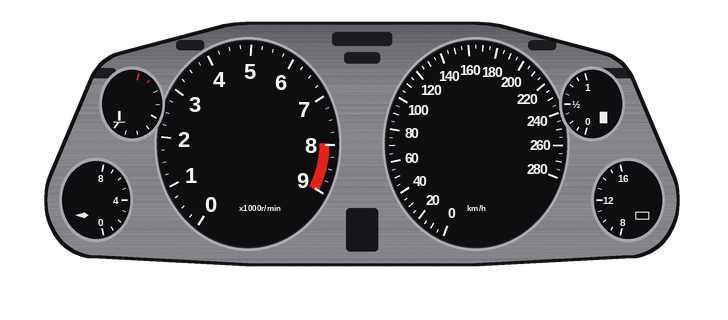
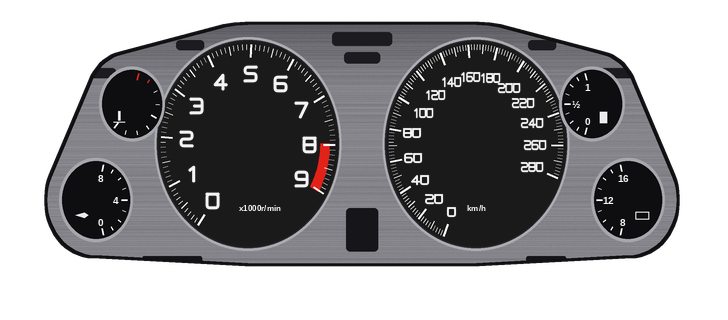
Kaze NX: quadro refeito pela foto — algarismos quadrados de cantos redondos desenhados à mão, marcações finas em toda a volta, ponteiros em barra sobre disco chapado, hodômetros fora dos mostradores (v0.29.9)
Claude-Session: https://claude.ai/code/session_01MLD9VR7gkmY4w6a9beZcp6

diff --git a/src/cockpit.ts b/src/cockpit.ts
@@ -796,7 +796,7 @@ COCKPIT_ART.countach = {
 // velocímetro 0-280 grandes, água e pressão do óleo à esquerda, combustível e bateria à direita
 COCKPIT_ART.nsx = {
   dash: cp('nsx-dash'), top: cp('nsx-top'), wheel: cp('nsx-wheel'),
-  pivot: [128, 104], wheelTop: 14, tachReal: true, speedMax: 280, needle: '#ff3a1a', needleW: 2.3, needleTail: 0, needleTip: 0.18, hub: '#1a1a1c', radar: [30, 4],
+  pivot: [128, 104], wheelTop: 14, tachReal: true, speedMax: 280, needle: '#f2361c', needleW: 1.8, needleTail: 3.0, needleTip: 0.5, hubUnder: true, hub: '#2c2c2f', radar: [30, 4],
   // retrovisor externo à direita (mão inglesa): o espelho da arte é transparente e mostra a vista de trás
   glass: { at: [436, 71], thr: 256 },
   // o quadro inteiro é uma imagem em alta resolução desenhada a partir da foto (tools/ref/nx_gauges.py):
@@ -805,7 +805,7 @@ COCKPIT_ART.nsx = {
   faces: [{ src: cp('nsx-cluster'), src2: cp('nsx-cluster-2x'), x: 38.5, y: 14.5, w: 182, h: 80 }],
   // à noite só números e marcações brancas acendem (o alumínio e os fundos pretos escurecem); ponteiros acesos
   facesLit: '236,244,255', litMin: 185, litNeedles: true,
-  needleFine: true, hubR: 3, tells: [129, 24], glow: '235,240,255', // setas na janelinha do alto; à noite números brancos
+  needleFine: true, hubR: 3.3, tells: [129, 24], glow: '235,240,255', // setas na janelinha do alto; à noite números brancos
   tach: { x: 100, y: 50, r: 22.5, max: 9, labels: [], tick: 1, red: 999, face: false, a0: 125 * (Math.PI / 180), sweep: 265 * (Math.PI / 180) },
   speed: { x: 157, y: 50, r: 22.5, max: 280, labels: [], tick: 20, red: 999, face: false, a0: 112 * (Math.PI / 180), sweep: 268 * (Math.PI / 180) },
   aux: [
@@ -815,9 +815,9 @@ COCKPIT_ART.nsx = {
     { x: 195, y: 64, r: 8, kind: 'single', show: ['volt'], arc: [104 * (Math.PI / 180), 256 * (Math.PI / 180)], needleOnly: true },
   ],
   extra: (c, ox, r) => {
-    // hodômetro total no velocímetro e o parcial no conta-giros, embaixo do miolo
-    odometer(c, ox, r, { x: 151.5, y: 58.5, w: 12, h: 3.5 }, 63373, 6, 0.5);
-    odometer(c, ox, r, { x: 96.5, y: 58.5, w: 8, h: 3.5 }, 34.3, 4, 0.5, true);
+    // hodômetros no alumínio, embaixo dos mostradores (como no carro)
+    odometer(c, ox, r, { x: 75, y: 78.5, w: 12, h: 3.5 }, 63373, 6, 0.5);
+    odometer(c, ox, r, { x: 170.5, y: 78.5, w: 8, h: 3.5 }, 34.3, 4, 0.5, true);
     // luz-espia vermelha entre os mostradores (acende na pressão do óleo baixa) e o desenho do carro
     const T = ART_TOP;
     c.fillStyle = gauges.oil < 0.36 ? '#ff3020' : '#7a1410';

diff --git a/tools/ref/nx_gauges.py b/tools/ref/nx_gauges.py
@@ -71,9 +71,75 @@ PIXFONT = {
 }
 
 
+# algarismos do quadro do NSX (conferidos na foto ampliada): largos e quadrados, de cantos bem
+# arredondados e traço médio (família Microgramma/Eurostile), desenhados à mão numa caixa 5 x 6
+NXD = {
+    '0': [[(0, 0), (5, 0), (5, 6), (0, 6), (0, 0), (5, 0)]],
+    '1': [[(1.2, 1.3), (2.8, 0), (2.8, 6)]],
+    '2': [[(0, 0), (5, 0), (5, 3), (0, 3), (0, 6), (5, 6)]],
+    '3': [[(0, 0), (5, 0), (5, 6), (0, 6)], [(1.6, 3), (5, 3)]],
+    '4': [[(3.6, 6), (3.6, 0), (0, 4.2), (5, 4.2)]],
+    '5': [[(5, 0), (0, 0), (0, 2.8), (5, 2.8), (5, 6), (0, 6)]],
+    '6': [[(5, 0), (0, 0), (0, 6), (5, 6), (5, 2.8), (0, 2.8)]],
+    '7': [[(0, 0), (5, 0), (2, 6)]],
+    '8': [[(0, 0), (5, 0), (5, 6), (0, 6), (0, 0), (5, 0)], [(0, 2.9), (5, 2.9)]],
+    '9': [[(5, 3.2), (0, 3.2), (0, 0), (5, 0), (5, 6), (0, 6)]],
+}
+NXW = {'1': 3.4}
+
+
+def fillet(path, r=1.25, n=5):
+    """arredonda os cantos de 90° do traçado (raio r)"""
+    out = [path[0]]
+    for a, b, c in zip(path, path[1:], path[2:]):
+        v1 = np.array(a, float) - b
+        v2 = np.array(c, float) - b
+        l1, l2 = np.hypot(*v1), np.hypot(*v2)
+        if l1 < 1e-6 or l2 < 1e-6 or abs(np.dot(v1, v2)) > 0.2 * l1 * l2:
+            out.append(b)
+            continue
+        rr = min(r, l1 / 2, l2 / 2)
+        p1, p2 = b + v1 / l1 * rr, b + v2 / l2 * rr
+        for t in np.linspace(0, 1, n):
+            out.append(tuple((1 - t) ** 2 * p1 + 2 * t * (1 - t) * np.array(b, float) + t * t * p2))
+    out.append(path[-1])
+    return out
+
+
+def nx_number(s, h, col=(246, 246, 246), bold=1.0):
+    S = 8
+    u = h * S / 6.9
+    t = u * 0.95 * bold
+    gap = u * 1.5
+    ws = [NXW.get(ch, 5) * u for ch in s]
+    w = int(sum(ws) + gap * (len(s) - 1) + t * 2)
+    lay = Image.new('L', (w, int(u * 6 + t * 2)), 0)
+    dd = ImageDraw.Draw(lay)
+    ox = t
+    for ch, cw in zip(s, ws):
+        for path in NXD[ch]:
+            pts = [(ox + x * u - (0.8 * u if ch == '1' else 0), t + y * u) for x, y in fillet(path)]
+            dd.line(pts, fill=255, width=int(t), joint='curve')
+            for x, y in (pts[0], pts[-1]):
+                dd.ellipse([x - t / 2, y - t / 2, x + t / 2, y + t / 2], fill=255)
+        ox += cw + gap
+    lay = lay.resize((max(1, w // S), max(1, lay.height // S)), Image.LANCZOS)
+    img = Image.new('RGBA', lay.size, col + (0,))
+    img.putalpha(lay)
+    return img
+
+
 def draw_labels(im):
     d = ImageDraw.Draw(im)
     for s, cx, cy, size, track in LABELS:
+        if KO == 4 and track > 50 and all(ch in NXD for ch in s):  # track > 50: número no estilo do NSX, size = altura
+            g = nx_number(s, size, bold=1.45 if size > 11 else 1.5)
+            if len(s) > 2:
+                g = g.resize((max(1, int(g.width * 0.8)), g.height), Image.LANCZOS)
+            im.alpha_composite(g, (int(round(cx - g.width / 2)), int(round(cy - g.height / 2))))
+            continue
+        if track > 50:
+            track = -0.5
         if KO == 2 and size < 9:
             if not all(ch in PIXFONT for ch in s):
                 continue  # textos pequenos (km/h, x1000r/min) não cabem em 2 px por pixel
@@ -143,24 +209,27 @@ def build(out):
     for g, labels, minor, red in [(TACH, list(range(10)), 0.25, 8), (SPEED, list(range(0, 281, 20)), 5, None)]:
         ell(d, g['x'], g['y'], g['r'] + 0.9, fill=(170, 172, 178))
         ell(d, g['x'], g['y'], g['r'] + 0.3, fill=(40, 40, 44))
-        ell(d, g['x'], g['y'], g['r'], fill=(14, 14, 16))
+        ell(d, g['x'], g['y'], g['r'], fill=(27, 26, 27))
         fr = lambda v: g['a0'] + g['sweep'] * v / g['max']
         if red is not None:  # bloco vermelho de 8 a 9 por dentro das marcações
             for k in range(60):
                 v = red + (g['max'] - red) * k / 59
-                tick(d, g, fr(v), g['r'] - 4.6, g['r'] - 2.2, int(K * 0.9), (226, 34, 24))
-        v = 0.0
-        while v <= g['max'] + 1e-6:
+                tick(d, g, fr(v), g['r'] - 4.4, g['r'] - 2.1, int(K * 0.9), (226, 34, 24))
+        # marcações finas e cheias em toda a volta (como na foto): conta-giros de 100 em 100 rpm,
+        # velocímetro de 2 em 2 km/h; as do meio mais compridas e as dos números compridas e grossas
+        minor, mid = (0.1, 0.5) if g is TACH else (2, 10)
+        n = int(round(g['max'] / minor))
+        for i in range(n + 1):
+            v = i * minor
             if any(abs(v - L) < 1e-6 for L in labels):
-                tick(d, g, fr(v), g['r'] - 3.2, g['r'] - 0.8, int(K * 0.55))
-            elif g is SPEED and abs(v / 10 - round(v / 10)) < 1e-6:
-                tick(d, g, fr(v), g['r'] - 2.2, g['r'] - 0.8, int(K * 0.4))
+                tick(d, g, fr(v), g['r'] - 3.6, g['r'] - 0.7, int(K * 0.5))
+            elif abs(v / mid - round(v / mid)) < 1e-6:
+                tick(d, g, fr(v), g['r'] - 2.7, g['r'] - 0.7, int(K * 0.3))
             else:
-                tick(d, g, fr(v), g['r'] - 1.6, g['r'] - 0.8, int(K * 0.3))
-            v += minor
+                tick(d, g, fr(v), g['r'] - 1.9, g['r'] - 0.7, int(K * 0.2))
         for L in labels:
-            x, y = at(g['x'], g['y'], fr(L), g['r'] - (6.6 if g is TACH else 6.3))
-            label(str(L), x, y, K * (5.6 if g is TACH else 3.4), track=-0.5 if g is TACH else -1.3)
+            x, y = at(g['x'], g['y'], fr(L), g['r'] - (7.2 if g is TACH else 6.4 + (1.3 if L >= 100 else 0)))
+            label(str(L), x, y, K * (4.0 if g is TACH else 2.5), track=99)
         x, y = P(g['x'], g['y'] + g['r'] * 0.62 * PY)
         label('x1000r/min' if g is TACH else 'km/h', x + (K * 3 if g is TACH else 0), y, K * 1.9, track=0)
     # pequenos
@@ -191,6 +260,11 @@ def build(out):
             d.line([ix - s * 1.2, iy + s, ix + s * 1.2, iy + s], fill=(235, 235, 235), width=max(1, K // 4))
         else:
             d.polygon([(ix - s * 1.4, iy), (ix + s * 0.6, iy - s * 0.6), (ix + s * 1.4, iy), (ix + s * 0.6, iy + s * 0.6)], fill=(235, 235, 235))
+    # hodômetros de cristal líquido no alumínio, embaixo (total à esquerda, parcial à direita): no carro
+    # de verdade ficam fora dos mostradores
+    for (x, y, w_, h_) in [(73.5, 78, 15, 4.5), (169.5, 78, 10, 4.5)]:
+        a, b = P(x, y)
+        d.rounded_rectangle([a, b, a + w_ * K, b + h_ * K], radius=K * 0.6, fill=(20, 21, 22))
     # moldura escura do quadro do desenho do carro (porta aberta), embaixo no meio
     a, b = P(124.5, 66)
     d.rounded_rectangle([a, b, a + 8 * K, b + 9.5 * K * PY], radius=K, fill=(22, 22, 26))
